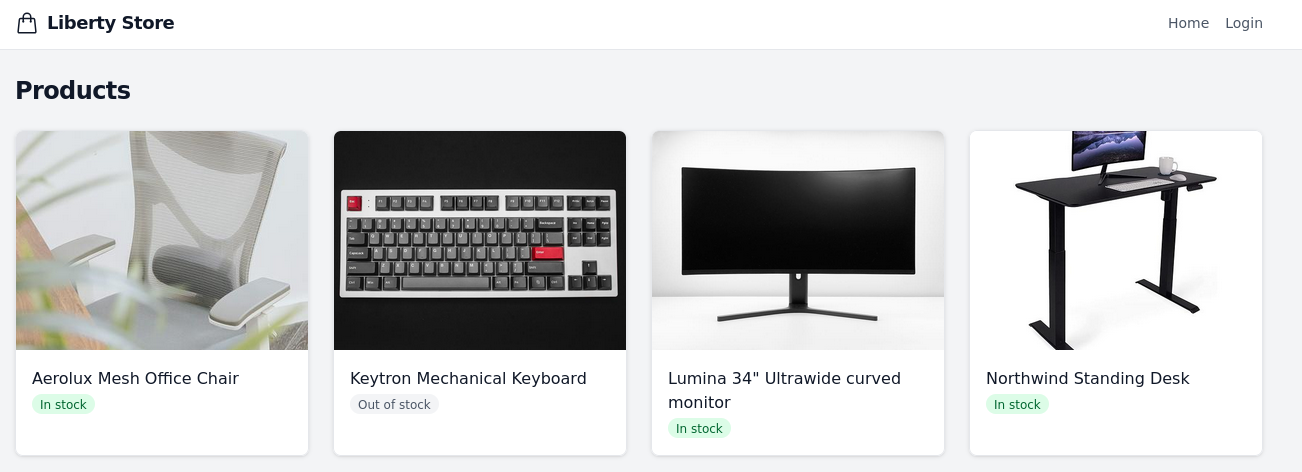
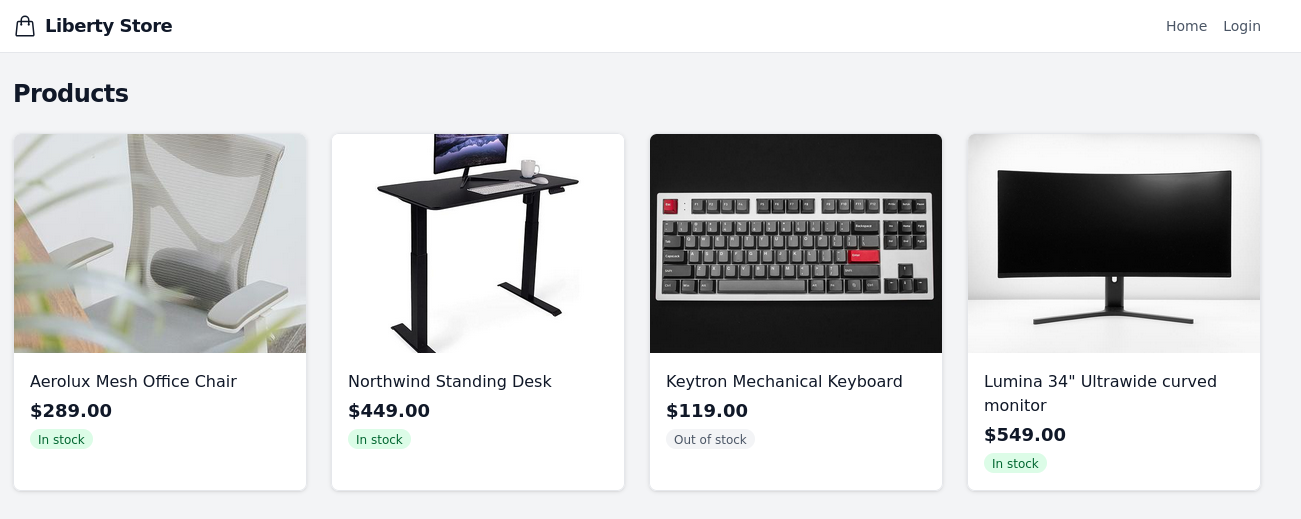
Add price column for products

diff --git a/db/migrate/20260612090000_add_price_to_products.rb b/db/migrate/20260612090000_add_price_to_products.rb
@@ -1,0 +1,11 @@
+class AddPriceToProducts < ActiveRecord::Migration[8.0]
+  def up
+    add_column :products, :price, :decimal, precision: 10, scale: 2
+    execute "UPDATE products SET price = 0"
+    change_column_null :products, :price, false
+  end
+
+  def down
+    remove_column :products, :price
+  end
+end

diff --git a/db/seeds.rb b/db/seeds.rb
@@ -12,15 +12,16 @@ if Rails.env.development?
     user.password_confirmation = admin_password
   end
   products = [
-    { name: "Aerolux Mesh Office Chair",     inventory_count: 12, description: "Ergonomic office chair with a breathable mesh back." },
-    { name: "Northwind Standing Desk",       inventory_count: 5,  description: "Height-adjustable desk for sitting or standing." },
-    { name: "Keytron Mechanical Keyboard",   inventory_count: 0,  description: "Tactile keyboard with hot-swappable switches." },
-    { name: "Lumina 34\" Ultrawide Curved Monitor", inventory_count: 8,  description: "34-inch curved ultrawide display with accurate color." }
+    { name: "Aerolux Mesh Office Chair",     inventory_count: 12, price: 289.00, description: "Ergonomic office chair with a breathable mesh back." },
+    { name: "Northwind Standing Desk",       inventory_count: 5,  price: 449.00, description: "Height-adjustable desk for sitting or standing." },
+    { name: "Keytron Mechanical Keyboard",   inventory_count: 0,  price: 119.00, description: "Tactile keyboard with hot-swappable switches." },
+    { name: "Lumina 34\" Ultrawide Curved Monitor", inventory_count: 8, price: 549.00, description: "34-inch curved ultrawide display with accurate color." }
   ]
 
   products.each do |attrs|
     Product.find_or_create_by!(name: attrs[:name]) do |product|
       product.inventory_count = attrs[:inventory_count]
+      product.price           = attrs[:price]
       product.description     = attrs[:description]
     end
   end

diff --git a/spec/requests/products_spec.rb b/spec/requests/products_spec.rb
@@ -24,13 +24,13 @@ RSpec.describe "Products", type: :request do
 
       it "creates a product" do
         expect {
-          post products_path, params: { product: { name: "Lamp", inventory_count: 3 } }
+          post products_path, params: { product: { name: "Lamp", inventory_count: 3, price: 19.99 } }
         }.to change(Product, :count).by(1)
       end
 
       it "does not create a product without a name" do
         expect {
-          post products_path, params: { product: { name: "", inventory_count: 3 } }
+          post products_path, params: { product: { name: "", inventory_count: 3, price: 19.99 } }
         }.not_to change(Product, :count)
 
         expect(response).to have_http_status(:unprocessable_entity)

diff --git a/db/schema.rb b/db/schema.rb
@@ -10,7 +10,7 @@
 #
 # It's strongly recommended that you check this file into your version control system.
 
-ActiveRecord::Schema[8.0].define(version: 2026_06_09_091000) do
+ActiveRecord::Schema[8.0].define(version: 2026_06_12_090000) do
   # These are extensions that must be enabled in order to support this database
   enable_extension "pg_catalog.plpgsql"
 
@@ -57,6 +57,7 @@ ActiveRecord::Schema[8.0].define(version: 2026_06_09_091000) do
     t.datetime "created_at", null: false
     t.datetime "updated_at", null: false
     t.integer "inventory_count", null: false
+    t.decimal "price", precision: 10, scale: 2, null: false
   end
 
   create_table "sessions", force: :cascade do |t|

diff --git a/app/controllers/products_controller.rb b/app/controllers/products_controller.rb
@@ -44,6 +44,6 @@ class ProductsController < ApplicationController
     @product = Product.find(params[:id])
   end
   def product_params
-    params.expect(product: [ :name, :description, :featured_image, :inventory_count ])
+    params.expect(product: [ :name, :description, :featured_image, :inventory_count, :price ])
   end
 end

diff --git a/app/models/product.rb b/app/models/product.rb
@@ -5,4 +5,5 @@ class Product < ApplicationRecord
   has_rich_text :description
   validates :name, presence: true
   validates :inventory_count, numericality: { greater_than_or_equal_to: 0 }
+  validates :price, numericality: { greater_than_or_equal_to: 0 }
 end

diff --git a/spec/factories/products.rb b/spec/factories/products.rb
@@ -2,6 +2,7 @@ FactoryBot.define do
   factory :product do
     sequence(:name) { |n| "Product #{n}" }
     inventory_count { 10 }
+    price { 49.99 }
 
     trait :out_of_stock do
       inventory_count { 0 }